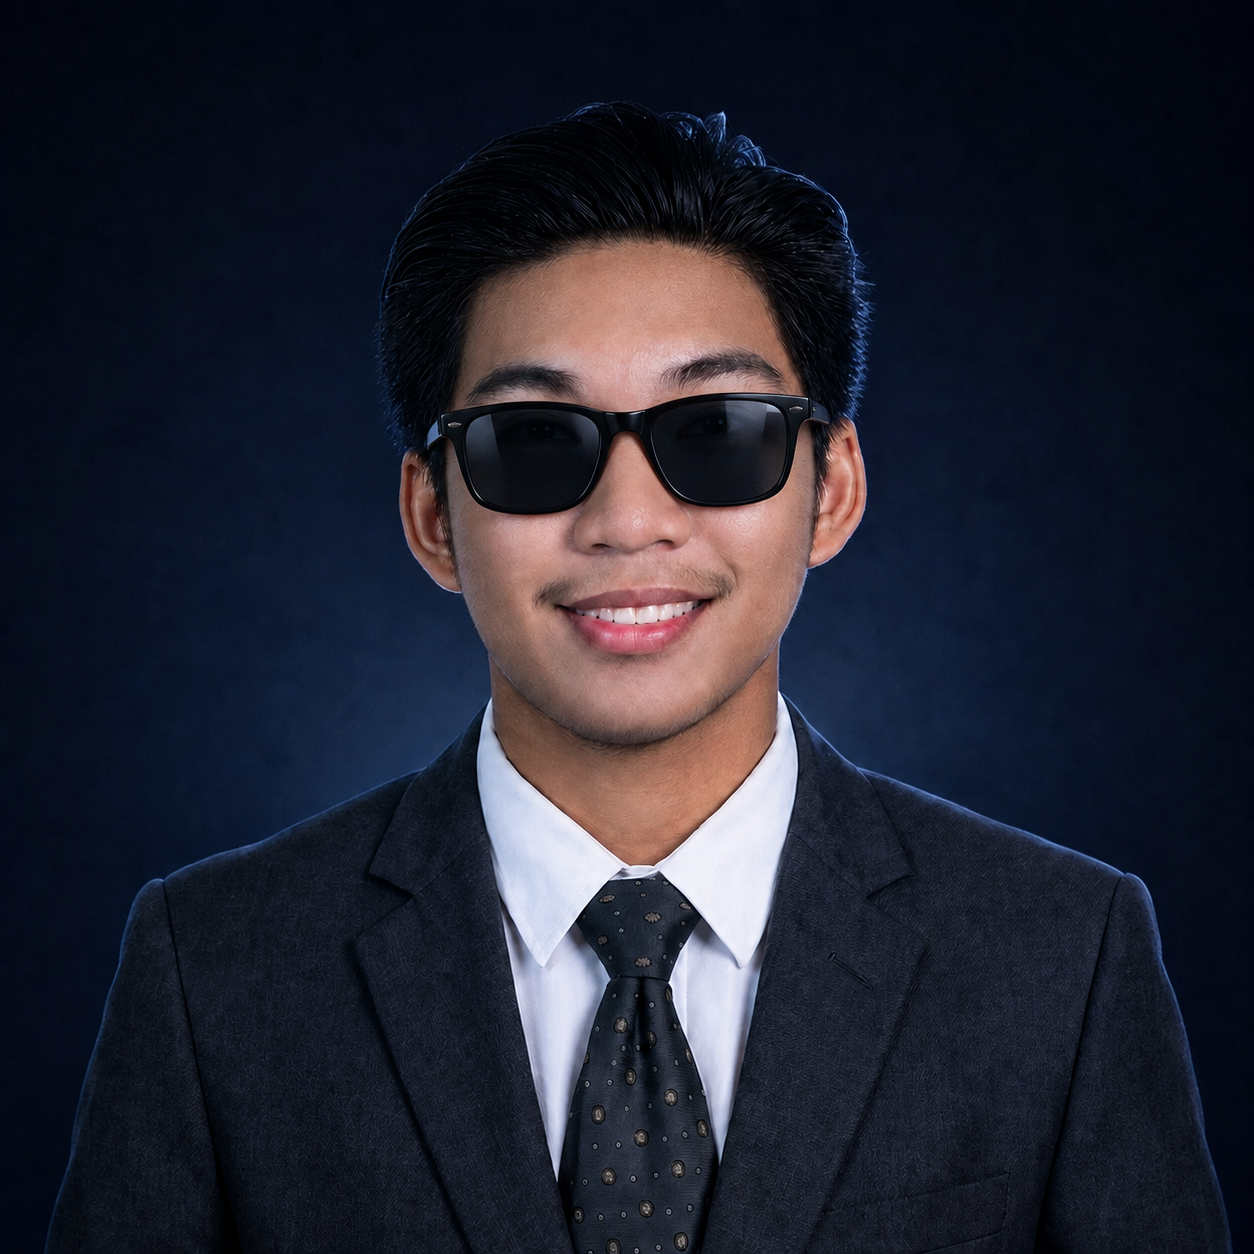
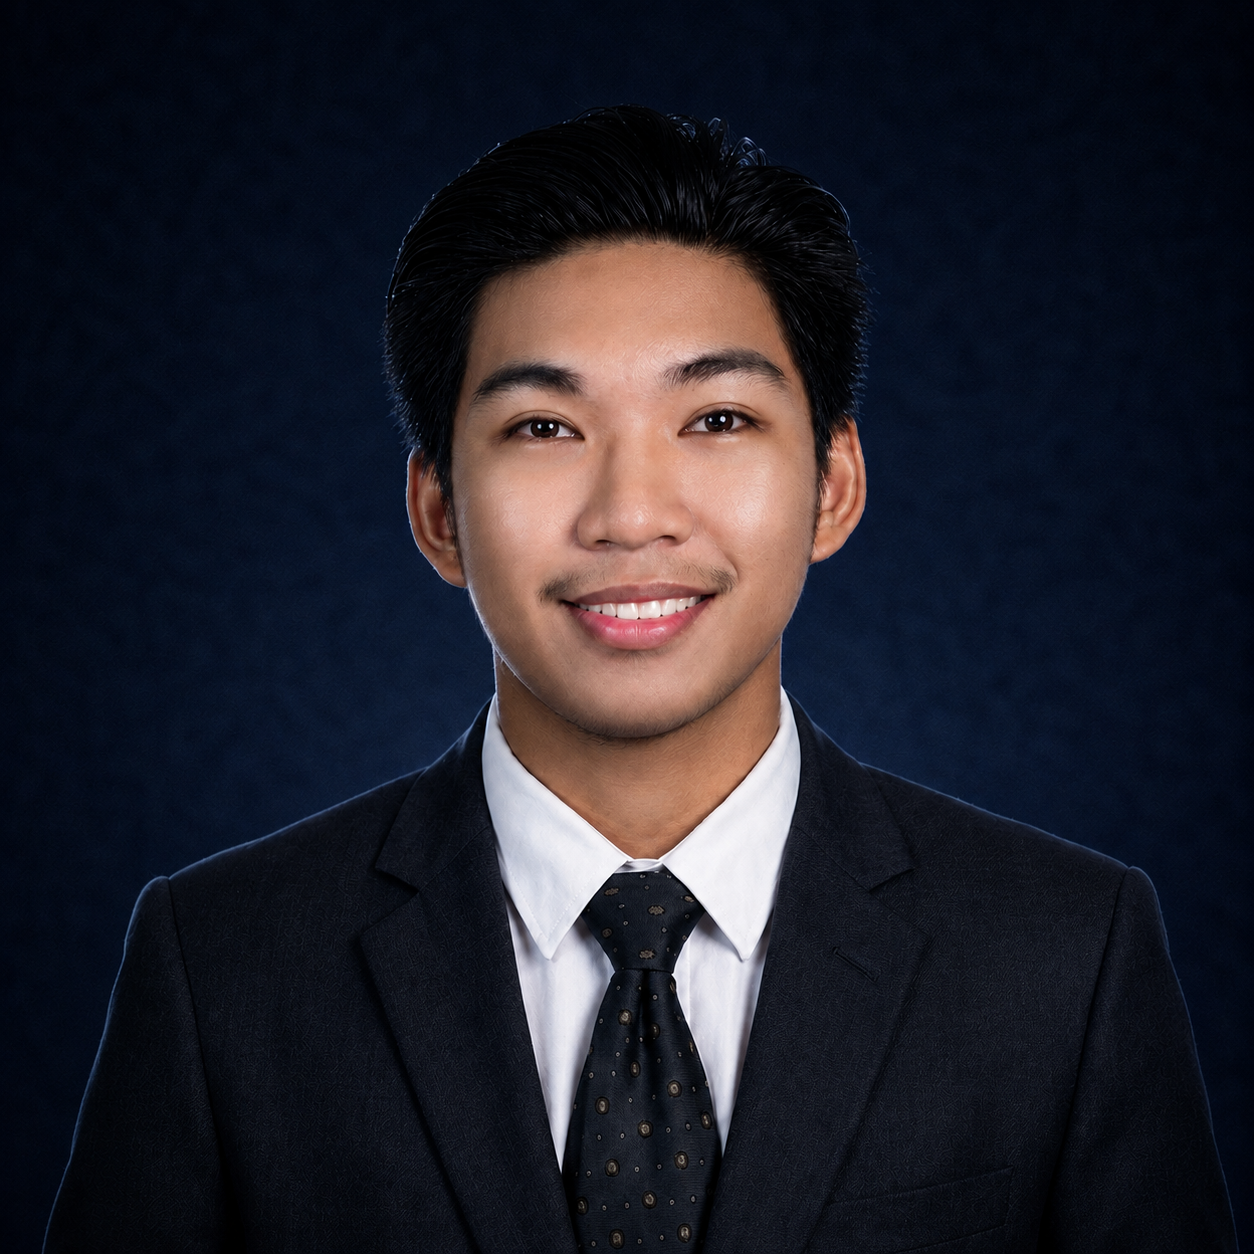
fix the home experience

diff --git a/src/components/Sections/Experience.tsx b/src/components/Sections/Experience.tsx
@@ -6,13 +6,16 @@ import { experience } from "../../data/experience";
 import { motion } from "framer-motion";
 
 interface ExperienceProps {
-  /** Set to false to hide each role's bullet-point description (used on the condensed Home page). */
   showDescription?: boolean;
 }
 
-export default function Experience({ showDescription = true }: ExperienceProps) {
+export default function Experience({
+  showDescription = true,
+}: ExperienceProps) {
   return (
-    <div className={showDescription ? "py-8 md:py-10" : "py-8 md:py-10 lg:py-8"}>
+    <div
+      className={showDescription ? "py-8 md:py-10" : "py-8 md:py-10 lg:py-8"}
+    >
       <SectionTitle icon={Briefcase} title="Experience" />
 
       <div className={showDescription ? "space-y-8" : "space-y-8 lg:space-y-5"}>
@@ -22,7 +25,11 @@ export default function Experience({ showDescription = true }: ExperienceProps) 
             initial={{ opacity: 0, y: 14 }}
             whileInView={{ opacity: 1, y: 0 }}
             viewport={{ once: true, margin: "-60px" }}
-            transition={{ duration: 0.45, delay: Math.min(index * 0.05, 0.15), ease: [0.16, 1, 0.3, 1] }}
+            transition={{
+              duration: 0.45,
+              delay: Math.min(index * 0.05, 0.15),
+              ease: [0.16, 1, 0.3, 1],
+            }}
             className={
               index > 0
                 ? showDescription
@@ -38,17 +45,17 @@ export default function Experience({ showDescription = true }: ExperienceProps) 
             />
 
             <div className="min-w-0 flex-1">
-              {/* Company */}
-              <div className="flex flex-wrap items-baseline justify-between gap-x-4 gap-y-1">
-                <h3 className="text-lg font-semibold text-ink">
-                  {exp.company}
-                </h3>
-              </div>
+              <h3 className="text-lg font-semibold text-ink">{exp.company}</h3>
 
               <p className="mt-1 text-sm text-ink-secondary">{exp.location}</p>
 
-              {/* Roles */}
-              <div className={showDescription ? "mt-6 space-y-6" : "mt-6 space-y-6 lg:mt-4 lg:space-y-4"}>
+              <div
+                className={
+                  showDescription
+                    ? "mt-6 space-y-6"
+                    : "mt-6 space-y-6 lg:mt-4 lg:space-y-4"
+                }
+              >
                 {exp.roles.map((role, roleIndex) => (
                   <div
                     key={role.id}
@@ -65,11 +72,9 @@ export default function Experience({ showDescription = true }: ExperienceProps) 
                         {role.position}
                       </h4>
 
-                      {showDescription && (
-                        <span className="text-sm text-ink-muted">
-                          {role.startDate} – {role.endDate}
-                        </span>
-                      )}
+                      <span className="text-sm text-ink-muted">
+                        {role.startDate} – {role.endDate}
+                      </span>
                     </div>
 
                     {showDescription && (
@@ -86,13 +91,15 @@ export default function Experience({ showDescription = true }: ExperienceProps) 
                       </ul>
                     )}
 
-                    {role.technologies && role.technologies.length > 0 && (
-                      <div className={showDescription ? "mt-4 flex flex-wrap gap-2" : "mt-4 flex flex-wrap gap-2 lg:mt-3"}>
-                        {role.technologies.map((tech) => (
-                          <Badge key={tech}>{tech}</Badge>
-                        ))}
-                      </div>
-                    )}
+                    {showDescription &&
+                      role.technologies &&
+                      role.technologies.length > 0 && (
+                        <div className="mt-4 flex flex-wrap gap-2">
+                          {role.technologies.map((tech) => (
+                            <Badge key={tech}>{tech}</Badge>
+                          ))}
+                        </div>
+                      )}
                   </div>
                 ))}
               </div>

diff --git a/src/data/experience.ts b/src/data/experience.ts
@@ -8,7 +8,7 @@ import dmsaLogo from "../assets/logos/dmsa.png";
 export const experience: Experience[] = [
   {
     id: "moonton-student-leaders",
-    company: "Moonton Games",
+    company: "Moonton Games - Moonton Student Leaders PH",
     logo: moontonLogo,
     location: "Hybrid · Philippines",
     startDate: "May 2025",
@@ -32,7 +32,7 @@ export const experience: Experience[] = [
       },
       {
         id: "student-leader",
-        position: "Moonton Student Leader (Philippines)",
+        position: "Moonton Student Leader",
         startDate: "May 2025",
         endDate: "July 2026",
         description: [
@@ -61,7 +61,7 @@ export const experience: Experience[] = [
     id: "dmsa-digital-media",
     company: "DMSA Pest Control Services",
     logo: dmsaLogo,
-    location: "Los Baños, Laguna, Philippines",
+    location: "Remote · Los Baños, Laguna, Philippines",
     startDate: "August 2026",
     endDate: "Present",
     roles: [
@@ -92,9 +92,9 @@ export const experience: Experience[] = [
   },
   {
     id: "freelance-uiux",
-    company: "Freelance / Independent Contract Work",
+    company: "Freelance",
     logo: freelance,
-    location: "Remote",
+    location: "Remote · Los Baños, Laguna, Philippines",
     startDate: "Jan 2024",
     endDate: "Present",
     roles: [
@@ -142,9 +142,9 @@ export const experience: Experience[] = [
 
   {
     id: "lspu-extension",
-    company: "Volunteer / Laguna State Polytechnic University",
+    company: "Laguna State Polytechnic University",
     logo: lspuLogo,
-    location: "Onsite - Los Baños, Laguna, Philippines",
+    location: "Hybrid · Los Baños, Laguna, Philippines",
     startDate: "Jan 2025",
     endDate: "Present",
     roles: [
@@ -192,7 +192,7 @@ export const experience: Experience[] = [
     company:
       "Bureau of Plant Industry – Los Baños National Crop Research, Development and Production Support Center",
     logo: bpi,
-    location: "Los Baños, Laguna, Philippines",
+    location: "Onsite · Los Baños, Laguna, Philippines",
     startDate: "April 2023",
     endDate: "May 2023",
     roles: [

diff --git a/src/components/Sidebar.tsx b/src/components/Sidebar.tsx
@@ -48,7 +48,7 @@ export default function Sidebar() {
       <p className="mt-1 text-sm font-medium text-ink-secondary">
         Computer Science Student
         <br />
-        Aspiring UI/Frontend Developer
+        Aspiring Frontend Developer | UI/UX Designer | IT Support
       </p>
 
       <p className="mt-5 max-w-xs text-sm leading-relaxed text-ink-muted">

diff --git a/index.html b/index.html
@@ -12,7 +12,7 @@
       rel="stylesheet"
     />
 
-    <title>Nezra | UI / Frontend Developer</title>
+    <title>Nezra | Frontend Developer | UI/UX Designer | IT Support</title>
   </head>
   <body>
     <div id="root"></div>
